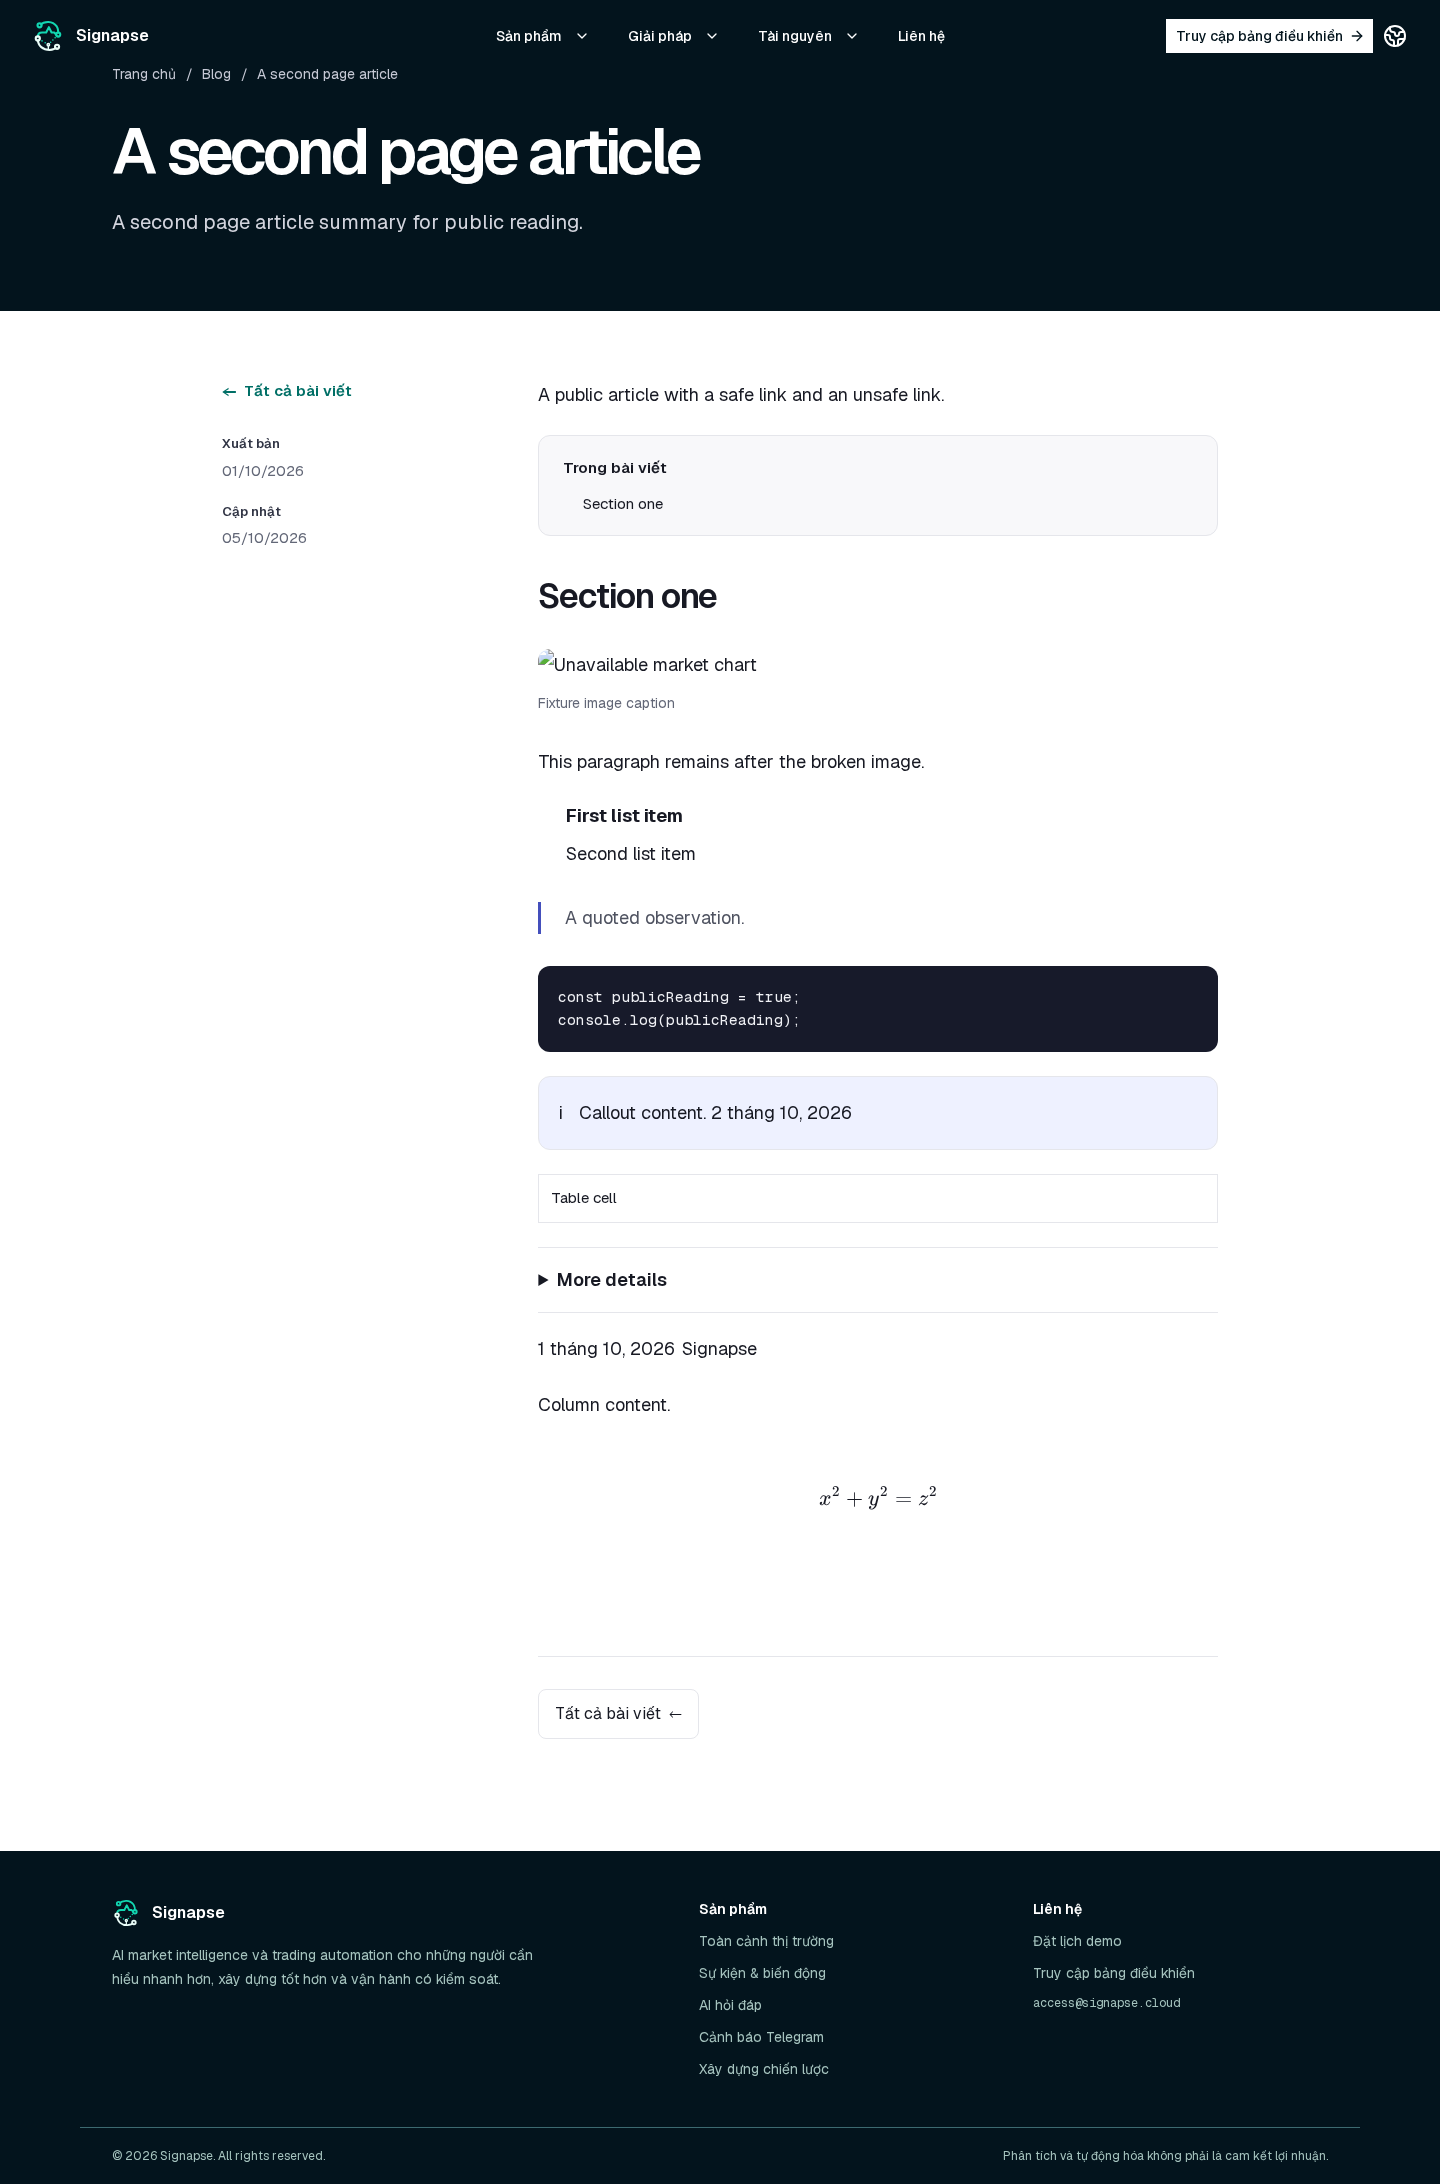
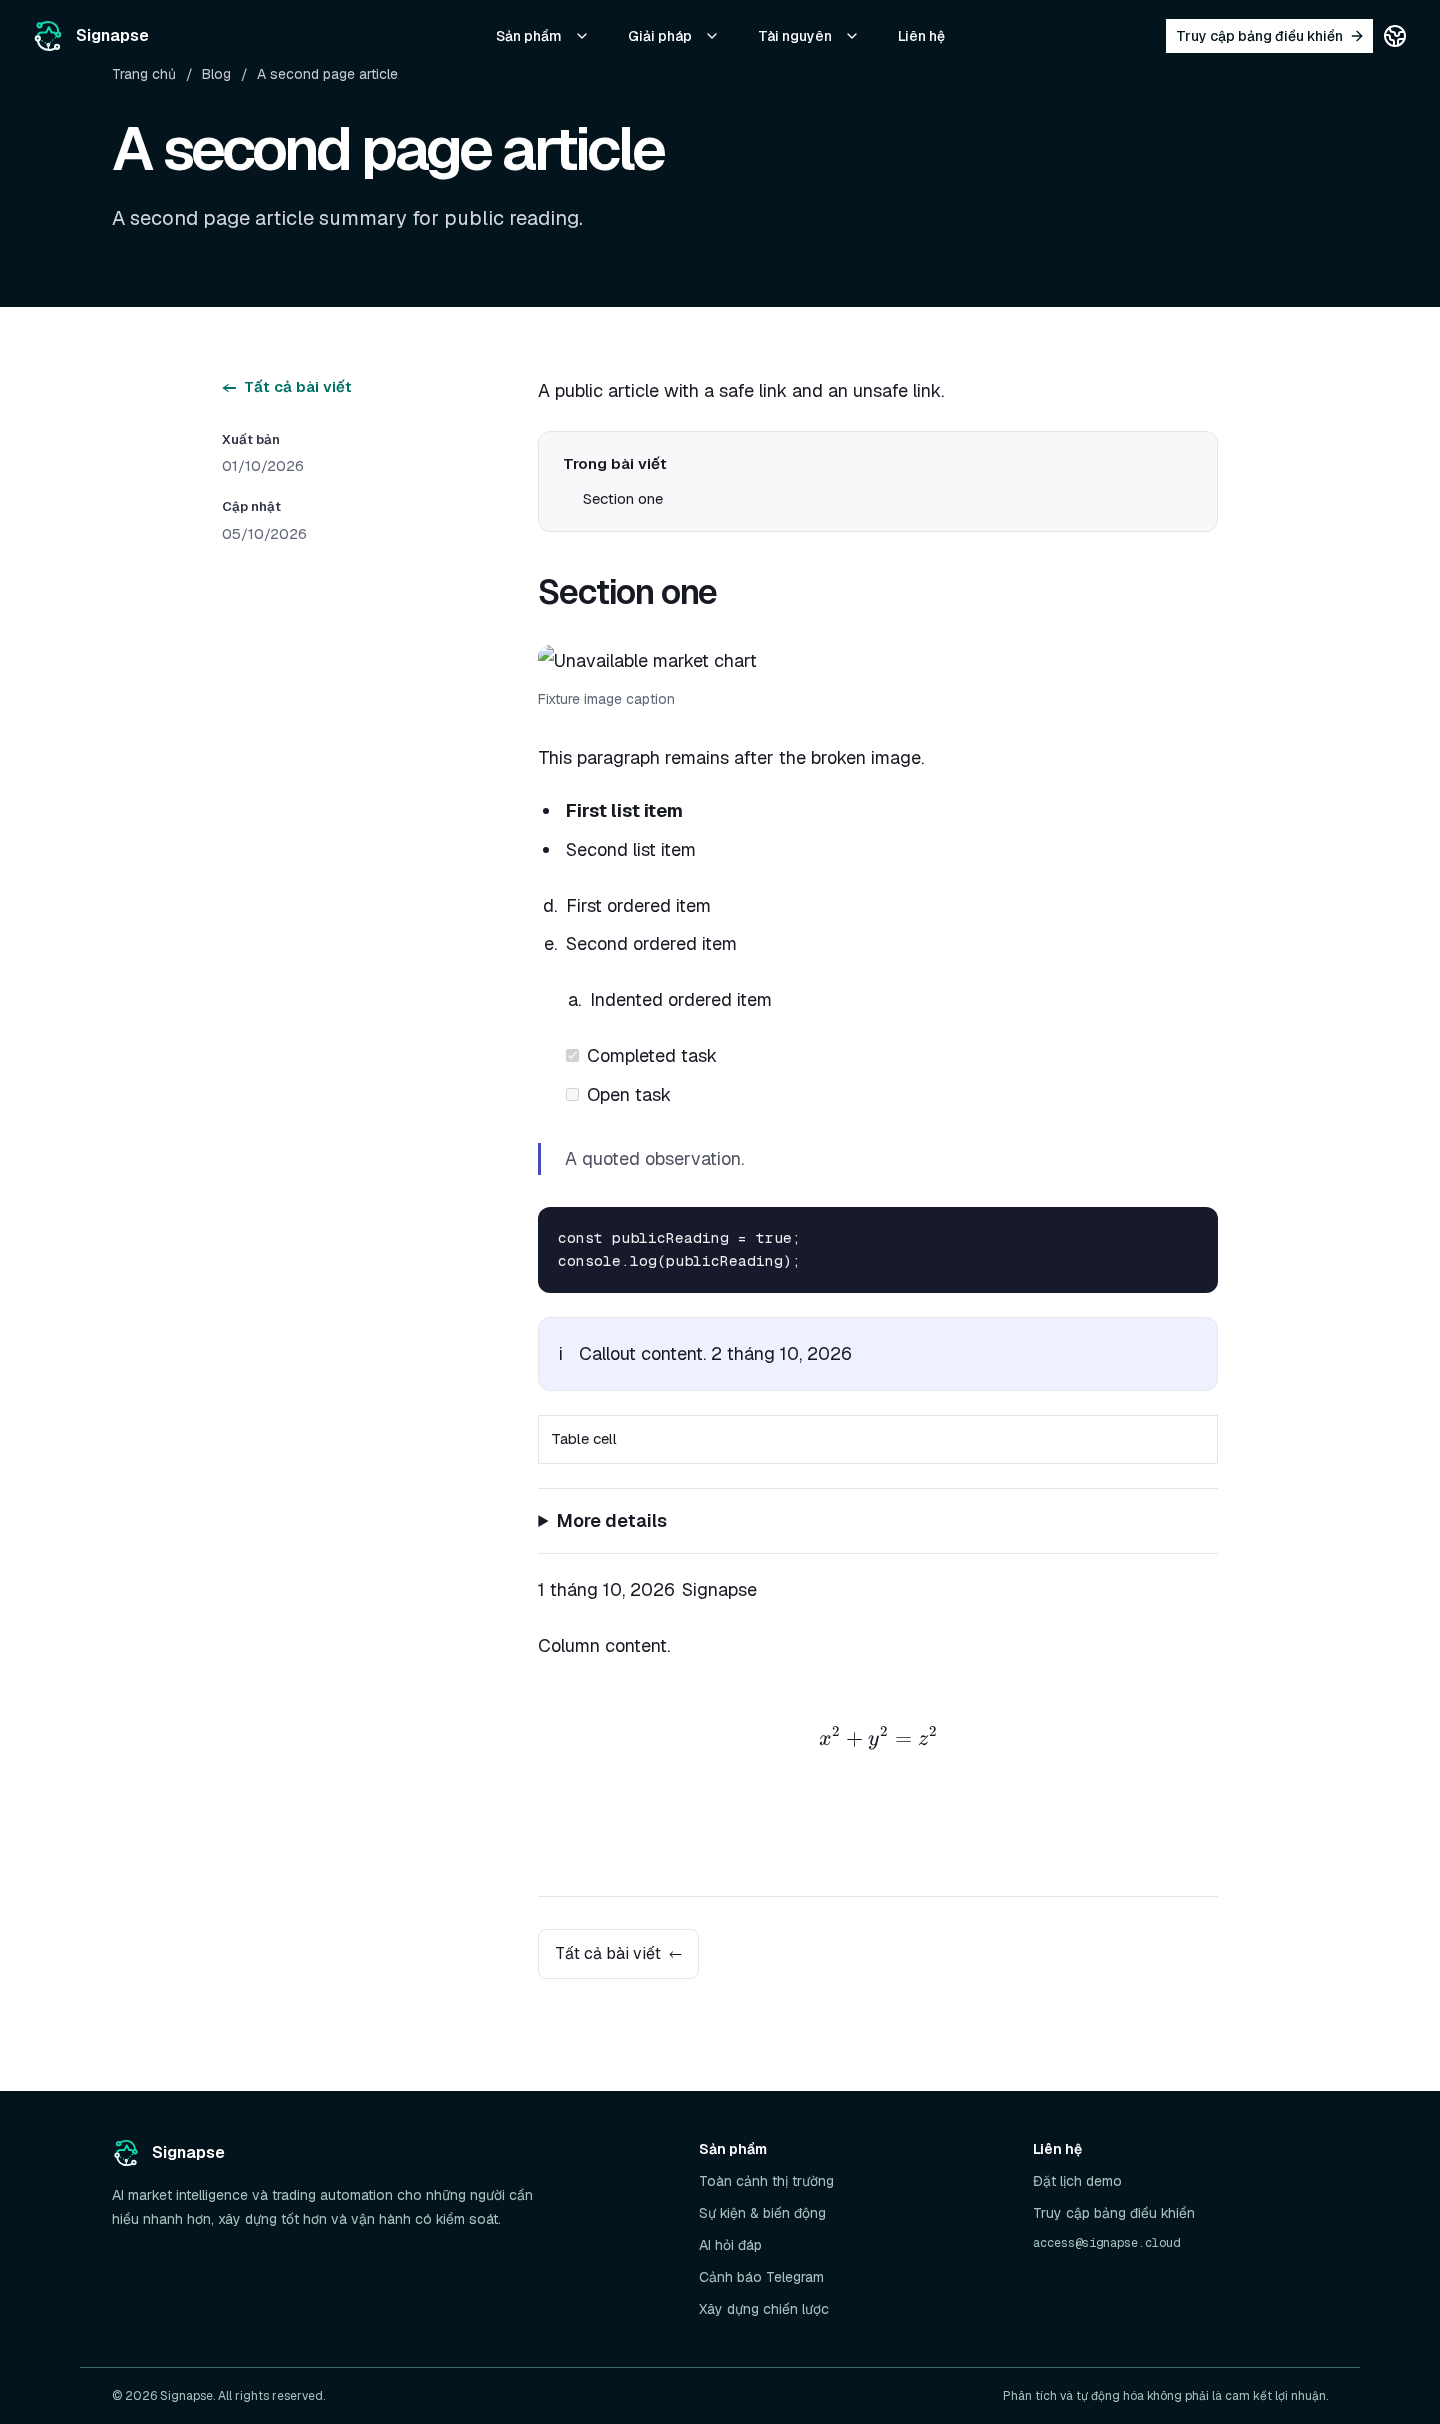
docs(SIGN-136): refresh blog verification evidence

diff --git a/docs/verification/public-blog/sign-136/README.md b/docs/verification/public-blog/sign-136/README.md
@@ -1,6 +1,6 @@
 # SIGN-136 — kiểm chứng local blog public
 
-Subtask `SIGN-136`, parent `SIGN-135`. Implementation revision `6e53ebc928144d6d3fad8e012637a8aabbf415b8`. Lượt chạy đầy đủ ngày **2026-10-08** dùng Node 24.21.0, pnpm 10.34.5 và Cloudflare Worker preview qua browser wrapper của Symphony.
+Subtask `SIGN-136`, parent `SIGN-135`. Initial implementation commit `6e53ebc928144d6d3fad8e012637a8aabbf415b8`; follow-up fixes and current handoff evidence are recorded below. Lượt chạy đầy đủ ngày **2026-10-08** dùng Node 24.21.0, pnpm 10.34.5 và Cloudflare Worker preview qua browser wrapper của Symphony.
 
 ## Kết quả
 
@@ -38,4 +38,26 @@ Desktop captures được so sánh với các export đã duyệt: [list 2×](ht
 
 Prototype ghi rõ copy trong export chỉ minh họa bố cục, chưa phải copy marketing được duyệt; vì vậy mô tả list giữ locale copy hiện có. Detail có breadcrumb bổ sung để chỉ đường dẫn trang.
 
-Canonical VI/EN remains subject to parent `SIGN-135` OD-1, which was still open at the latest Jira reread. No hosted acceptance, merge or deployment is claimed here.
+## Rà soát khi resume — 2026-10-08
+
+Coordinator đã chốt OD-1 trong comment `10017` của `SIGN-136` và cập nhật SIGN-135 AC-7: URL VI/EN giữ nguyên; nội dung, title và slug dùng chung; từng URL list/detail canonical theo locale; canonical list giữ trang hiện tại; hreflang liên kết cùng trang hoặc cùng slug. Implementation trên revision `56531c0aca9487623817bd7ca7a4fdacfc28c07f` đáp ứng các đích này. Ghi chú blocker ở lượt kiểm tra ban đầu phía trên phản ánh trạng thái trước quyết định này.
+
+OpenAPI được đọc lại lúc **2026-10-08 07:13:49 UTC** tại `https://dev-api.signapse.cloud/v3/api-docs`; `x-build-revision` vẫn là `5379145d86da2cab3af902d8c733e905d8dab80e`. Fetch anonymous trực tiếp lúc **07:16:43 UTC**: list `page=0&size=1` trả HTTP 200, detail slug `test` trả HTTP 200 và `contentSchemaVersion: 1`. Không gửi credential. Đây là kiểm tra dev API tại thời điểm ghi, không xác nhận hosted landing hoặc QA trên production data.
+
+Hai screenshot desktop đã lưu được đối chiếu trực tiếp với export đã duyệt ở revision `5d0fb679c3b7500d518a6652873772f9b7b35a8e`. List giữ intro, thẻ bài nổi bật, lưới, phân trang và footer. Detail giữ hero navy, rail bên trái, cột nội dung và back-to-list; capture hiện có thêm breadcrumb trong hero và hiển thị nhãn/ngày trên hai dòng. Review độc lập xác định mức ảnh hưởng của các khác biệt nhỏ này trước handoff.
+
+PR #4 hiện mở trên head `56531c0aca9487623817bd7ca7a4fdacfc28c07f`; workflow Verify/check thành công trên revision này. Chưa có hosted acceptance, merge hoặc deployment; các bước đó do owner/coordinator thực hiện sau handoff.
+
+Rà soát resume trên checkout Node 24.21.0 / pnpm 10.34.5: `pnpm check`, `pnpm lint`, `pnpm format:check`, Prettier trực tiếp cho file evidence và `pnpm build` đều pass. Build còn cảnh báo chunk vượt 500 kB. Browser wrapper chạy với `PUBLIC_APP_ORIGIN=http://localhost:3000`, `PUBLIC_CONTACT_API_ORIGIN=https://dev-api.signapse.cloud`, `SIGNAPSE_PUBLIC_ORIGIN=https://landing.example.test`, indexability `false` và Analytics `false`: **51/51 pass**, Chromium, run `SIGN-136.20261008T072901Z.Jk9GJB`. Assertions mới khóa canonical/hreflang của list trang 2 và detail cùng slug theo AC-7. Đây là local output/evidence; không thay hosted acceptance.
+
+## Kiểm chứng khi bàn giao — 2026-10-08
+
+Implementation source revision: `ab7c8126ffe2c5be8a02048d96a245c483299bd7`; Playwright title-size assertion revision: `f8fd68efd1429cb7a74320e08fa3ee95525386f6`. The list route redirects stale pagination to the last available page without caching the redirect. The content renderer preserves editor list markers, numbering start, indent and checklist state. The detail title is 60 px at 1440 px as specified by the approved prototype.
+
+On exact HEAD `f8fd68efd1429cb7a74320e08fa3ee95525386f6`, `pnpm check`, `pnpm lint`, `pnpm format:check`, and `pnpm build` passed between **07:55:57 and 07:56:20 UTC**. Build still reports a Vite chunk above 500 kB. `pnpm exec wrangler deploy --dry-run` passed at **07:54 UTC**, confirming the current Worker output and `ASSETS` / `PUBLIC_BLOG_API_ORIGIN` bindings; it did not deploy. No model files changed, so `pnpm test:models` was not rerun; its previous result was 14/14.
+
+The full Symphony browser wrapper passed **52/52** on Chromium, run `SIGN-136.20261008T075010Z.7f9eKb`; durable evidence: `/opt/apps/symphony/logs-landing/evidence/SIGN-136.20261008T075010Z.7f9eKb`. It exercised the out-of-range redirect over HTTP, list HTML with JavaScript disabled, editor list markers/start/indent/check state, structural lists, error and freshness paths, mobile layout, keyboard navigation and accessibility. A focused test also passed **1/1**, confirming the 60 px detail title at 1440 px, run `SIGN-136.20261008T075413Z.msmBse`. The tracked desktop captures were refreshed from the full run; ignored Playwright output is not durable evidence.
+
[1 lines of base64/hex data omitted]
+
+The refreshed list and detail captures were compared again with the approved exports at planning revision `5d0fb679c3b7500d518a6652873772f9b7b35a8e`. List structure and detail hero/rail/content/back link match the approved layout. The detail title now matches the 60 px contract. Independent review passed Requirement adherence and Correctness & Standards with no blocking findings; it recorded the added breadcrumb and two-line date labels as small visual differences. Merge, deployment, hosted smoke and coordinator acceptance remain separate human-owned actions.
